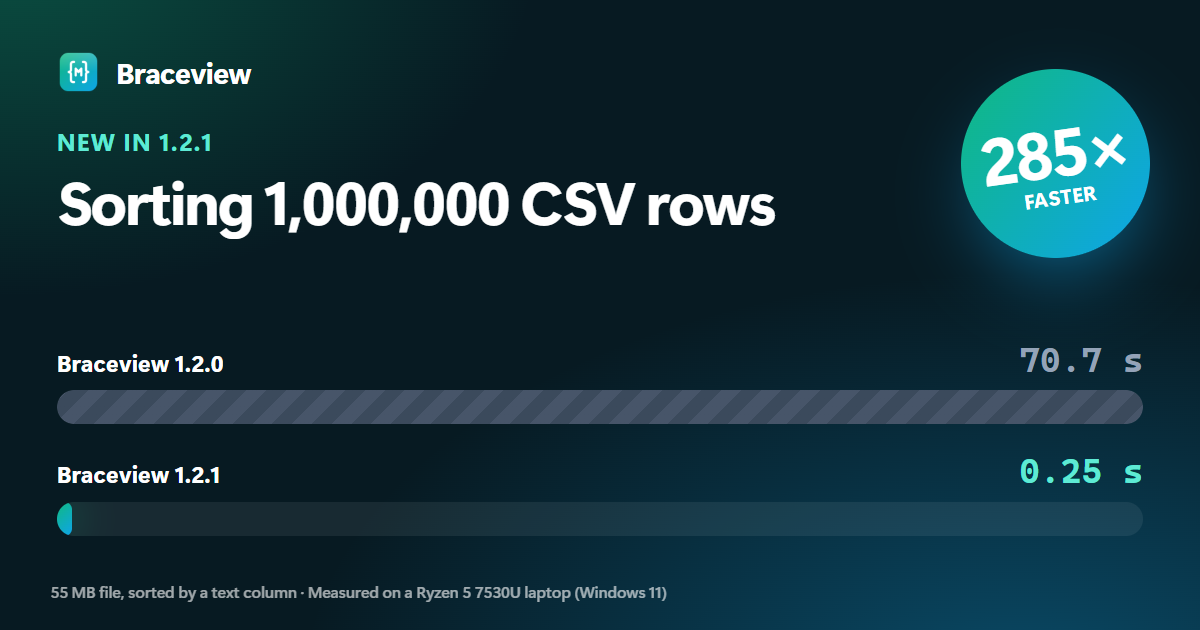
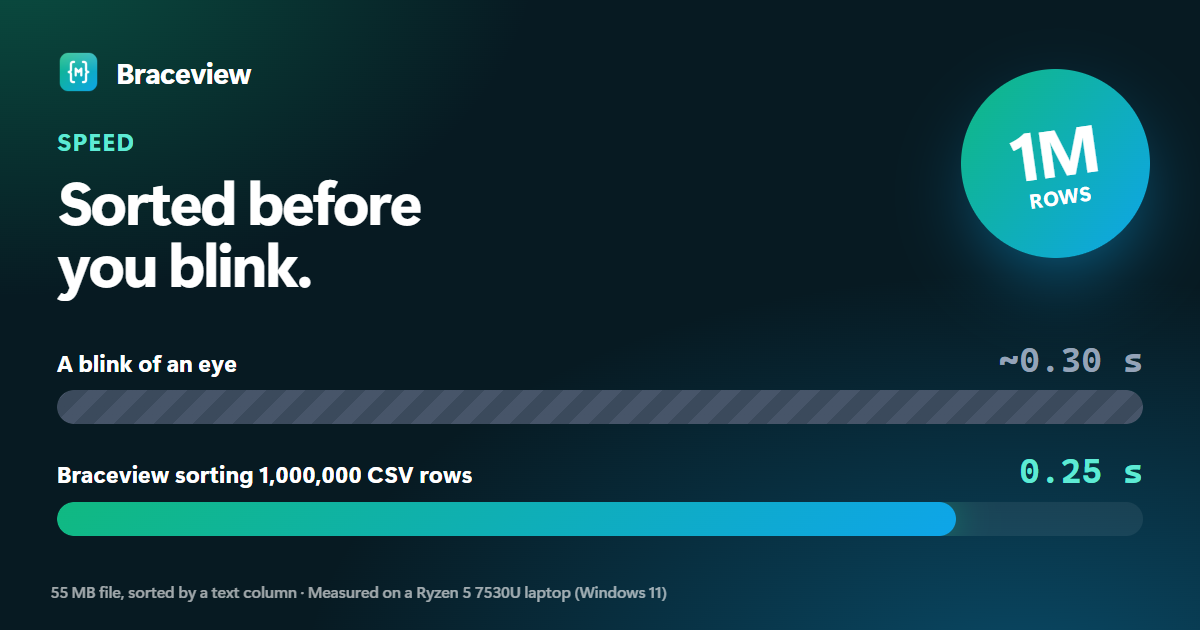
Speed section: absolute numbers and the blink comparison

diff --git a/docs/index.html b/docs/index.html
@@ -220,7 +220,7 @@
     <div class="wrap">
       <div class="kicker">Speed</div>
       <h2>Numbers, not adjectives</h2>
-      <p class="lead">Measured on an everyday Ryzen 5 laptop, not a workstation. Version 1.2.1 sorts a million-row CSV <b>285× faster</b> than 1.2.0.</p>
+      <p class="lead">Measured on an everyday Ryzen 5 laptop, not a workstation. A million-row CSV sorts <b>faster than you can blink</b>.</p>
       <div class="speed">
         <div>
           <div class="stats">
@@ -236,7 +236,7 @@
           </div>
           <p class="fine">Method, machine and every number: <a href="https://github.com/viveksthul15/braceview/blob/main/BENCHMARKS.md">benchmarks</a>.</p>
         </div>
-        <div class="frame"><img src="assets/speed-race.png" alt="Sorting 1,000,000 CSV rows: Braceview 1.2.0 took 70.7 seconds, 1.2.1 takes 0.25 seconds" loading="lazy" width="1200" height="630"></div>
+        <div class="frame"><img src="assets/speed-race.png" alt="A blink of an eye takes about 0.30 seconds; Braceview sorts 1,000,000 CSV rows in 0.25 seconds" loading="lazy" width="1200" height="630"></div>
       </div>
     </div>
   </section>

diff --git a/BENCHMARKS.md b/BENCHMARKS.md
@@ -5,27 +5,6 @@ How long Braceview takes on real-world-sized files, measured on an ordinary lapt
 Measured 2026-09-17 on AMD Ryzen 5 7530U with Radeon Graphics, 15 GB RAM, Windows 11. Desktop: packaged 1.2.1 app, 5 cold starts per scenario, medians. Extension: Chromium 152.0.7977.78 (Electron 44.4.1), 5 runs per page, medians.
 
 
-## What 1.2.1 changed
-
-| Action | 1.2.0 | 1.2.1 | Change |
-| --- | --- | --- | --- |
-| Sort 1M CSV rows by text | 70.69 s | 248 ms | **285× faster** |
-| Sort 200k CSV rows by text | 15.40 s | 127 ms | **122× faster** |
-| Sort 1M CSV rows by number | 4.29 s | 398 ms | **11× faster** |
-| Column statistics, 1M rows | 8.38 s | 347 ms | **24× faster** |
-| Column statistics, 200k rows | 947 ms | 87 ms | **11× faster** |
-| Search + filter 1M rows | 1.01 s | 379 ms | **3× faster** |
-| Open 0.5 MB Markdown (600 sections) | 3.63 s | 2.14 s | 41% faster |
-| Open the split editor on it | 650 ms | 218 ms | **3× faster** |
-| Launch (no file) | 976 ms | 840 ms | 14% faster |
-| Open 20 MB JSON | 1.89 s | 1.76 s | 7% faster |
-| Open 1M-row CSV | 2.68 s | 2.39 s | 11% faster |
-| Extension: small JSON response | 668 ms | 451 ms | 33% faster |
-| Extension: CSV, 480 rows | 661 ms | 497 ms | 25% faster |
-| Extension: 600-section Markdown | 3.41 s | 1.98 s | 42% faster |
-
-Memory with the 600-section Markdown document open: desktop 454 MB → 293 MB, extension tab 356 MB → 198 MB. Code loaded before anything is shown: desktop 2.4 → 1.4 MB, extension viewer 2.4 → 1.41 MB.
-
 ## Desktop app
 
 ### Cold start to readable content
@@ -112,19 +91,18 @@ Time from launching the exe until the content is on screen. Memory is the privat
 | Diagram library (only for Markdown with Mermaid) | 5.03 MB |
 | Unpacked / zip | 8.5 MB / 0 MB |
 
-## How it got faster
+## Why it is fast
 
-1. **CSV sorting** — each column gets one numeric sort key per row, computed once and cached: numbers are parsed once, ISO dates take a fast path, and text is ranked by sorting only its distinct values with one shared `Intl.Collator`. Rows are then placed with a stable counting sort, so there are no per-comparison callbacks. Before, every comparison re-parsed both cells or called `localeCompare` with options.
-2. **Column statistics** — rows are read in file order (reading a sorted view hopped around memory), numbers are sorted natively in a `Float64Array`, the most common values come from one pass, and results are cached until the filter changes.
-3. **String hashing** — counting distinct values no longer uses cell strings as `Map` keys. In Chromium, once a large file is loaded, the engine hashes millions of fresh substrings about 30× slower the first time (2.4 s instead of 80 ms per million cells), so Braceview hashes them itself.
-4. **Large Markdown** — the sanitizer hands over its DOM instead of an HTML string that was then parsed a second time, and long documents let the browser skip layout for off-screen blocks (`content-visibility: auto`).
-5. **Less code up front** — both apps are split into ES modules, so about 1 MB of code-editor grammars loads only when a code block needs colouring. The extension imports its viewer directly instead of asking the service worker to inject it.
-6. **Still slow: 20 MB JSON in the extension** — most of that time is the browser receiving and laying out the raw text before the viewer takes over.
+1. **CSV sorting** — each column gets one numeric sort key per row, computed once and cached: numbers are parsed once, ISO dates take a fast path, and text is ranked by sorting only its distinct values with one shared `Intl.Collator`. Rows are then placed with a stable counting sort, so there are no per-comparison callbacks.
+2. **Column statistics** — rows are read in file order, numbers are sorted natively in a `Float64Array`, the most common values come from one pass, and results are cached until the filter changes.
+3. **String hashing** — distinct values are counted with a hash computed in JavaScript rather than by using cell strings as `Map` keys. In Chromium, with a large file loaded, the engine hashes millions of fresh substrings about 30× slower the first time.
+4. **Large Markdown** — the sanitizer hands its DOM straight to the page, and long documents let the browser skip layout for off-screen blocks (`content-visibility: auto`).
+5. **Little code up front** — both apps are split into ES modules, so about 1 MB of code-editor grammars loads only when a code block needs colouring.
+6. **Known slow spot: 20 MB JSON in the extension** — most of that time is the browser receiving and laying out the raw text before the viewer takes over.
 
 ## Caveats
 
 - The laptop display was off during the run, so the browser produced no frames: scroll timings cover script + layout, not paint.
 - The extension was measured in Electron's Chromium (same engine as Chrome, same extension code), not in Chrome itself.
 - Cold starts are medians of 5 launches; each interaction was timed once per run, on a freshly launched app.
-- The 1.2.0 baseline ran with less free memory (about 2 GB) and another Braceview window open, so small differences such as launch time partly reflect the machine, not the code. The large CSV and Markdown gains do not.
 - Interaction timings subtract the UI's own input debounce (80 ms stats, 250 ms JSONPath).

diff --git a/CHANGELOG.md b/CHANGELOG.md
@@ -4,13 +4,13 @@ All notable changes to Braceview are documented here. Versions follow semantic v
 
 ## [1.2.1] — 2026-09-17
 
-A speed release. Full numbers, method and machine are in [BENCHMARKS.md](https://github.com/viveksthul15/braceview/blob/main/BENCHMARKS.md).
+Tuned for big files. Full numbers, method and machine are in [BENCHMARKS.md](https://github.com/viveksthul15/braceview/blob/main/BENCHMARKS.md).
 
 ### Changed
 
-- **CSV sorting is up to 285× faster.** Sorting a million rows by a text column takes 0.25 s instead of 70.7 s; number and date columns take under a second.
-- **Column statistics are up to 24× faster** on large files and are reused when you only change the sort order.
-- **Long Markdown documents open 41% faster and use about a third less memory**; the browser skips layout for sections you haven't scrolled to yet, and the split editor opens 3× faster.
+- **CSV sorting built for big files.** A million rows sort by a text column in 0.25 s, by a number column in 0.4 s.
+- **Column statistics on a million rows in 0.35 s**, reused when you only change the sort order.
+- **Long Markdown documents stay light**: the browser skips layout for sections you haven't scrolled to yet, so a 600-section report opens in about 2 s.
 - **Less code to load before the first file appears.** Code-editor syntax grammars now load only when a code block needs them, in the desktop app and the extension.
 - The Chrome extension loads its viewer directly and no longer needs the `scripting` permission.
 

diff --git a/README.md b/README.md
@@ -67,11 +67,11 @@ Get them from the [latest release](https://github.com/viveksthul15/braceview/rel
 
 Measured on an everyday Ryzen 5 laptop. Full method and results: [BENCHMARKS.md](BENCHMARKS.md).
 
-![Sorting 1,000,000 CSV rows: 70.7 s in 1.2.0, 0.25 s in 1.2.1](docs/assets/speed-race.png)
+![A blink takes about 0.30 s; Braceview sorts 1,000,000 CSV rows in 0.25 s](docs/assets/speed-race.png)
 
 | | |
 | --- | --- |
-| Sort a million CSV rows (55 MB) | **0.25 s**, 285× faster than 1.2.0 |
+| Sort a million CSV rows (55 MB) | **0.25 s** — faster than a blink |
 | Column statistics on a million rows | **0.35 s** |
 | Double-click to a 20 MB JSON tree | **1.8 s**, including app start |
 | CPU while it sits open | **~0%** |
